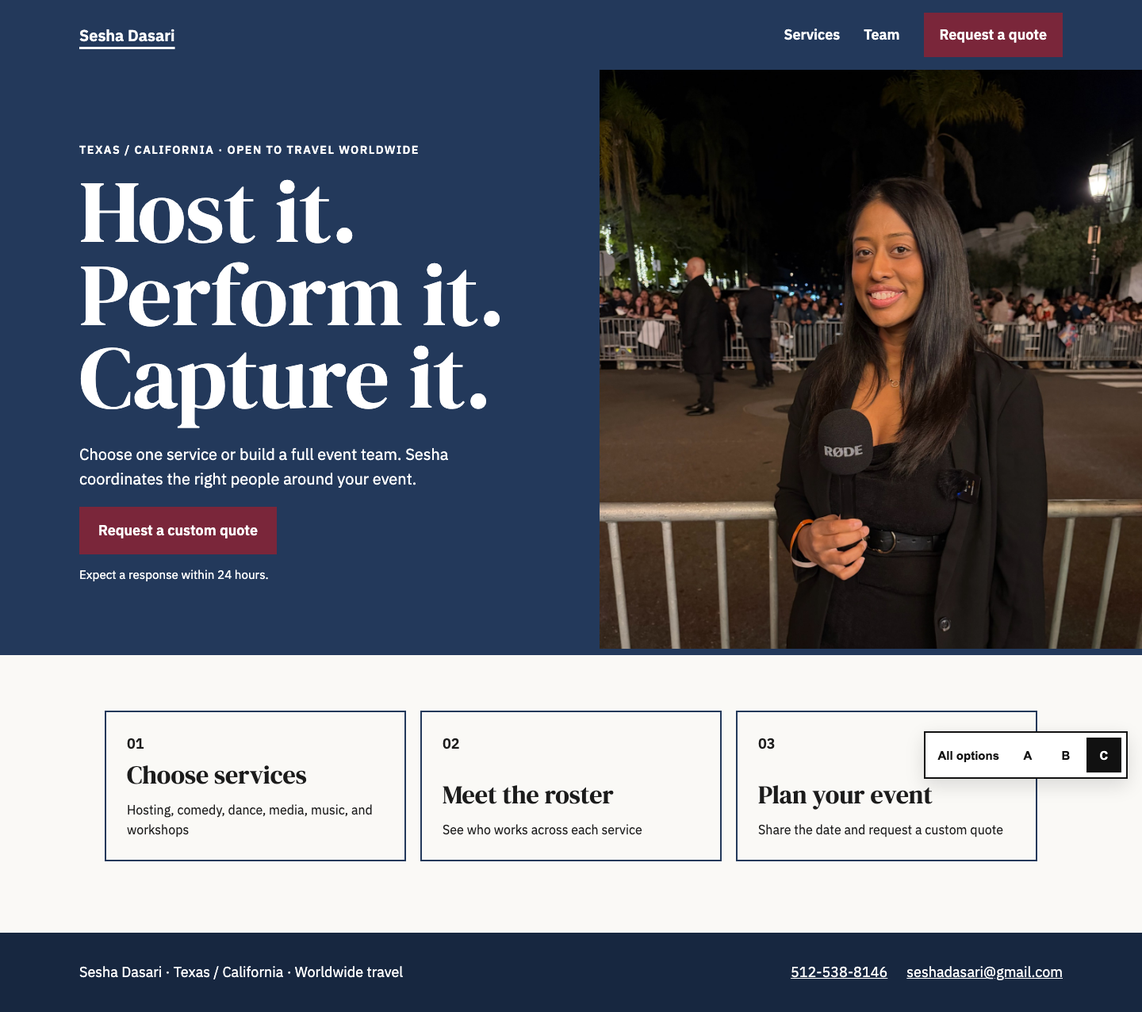
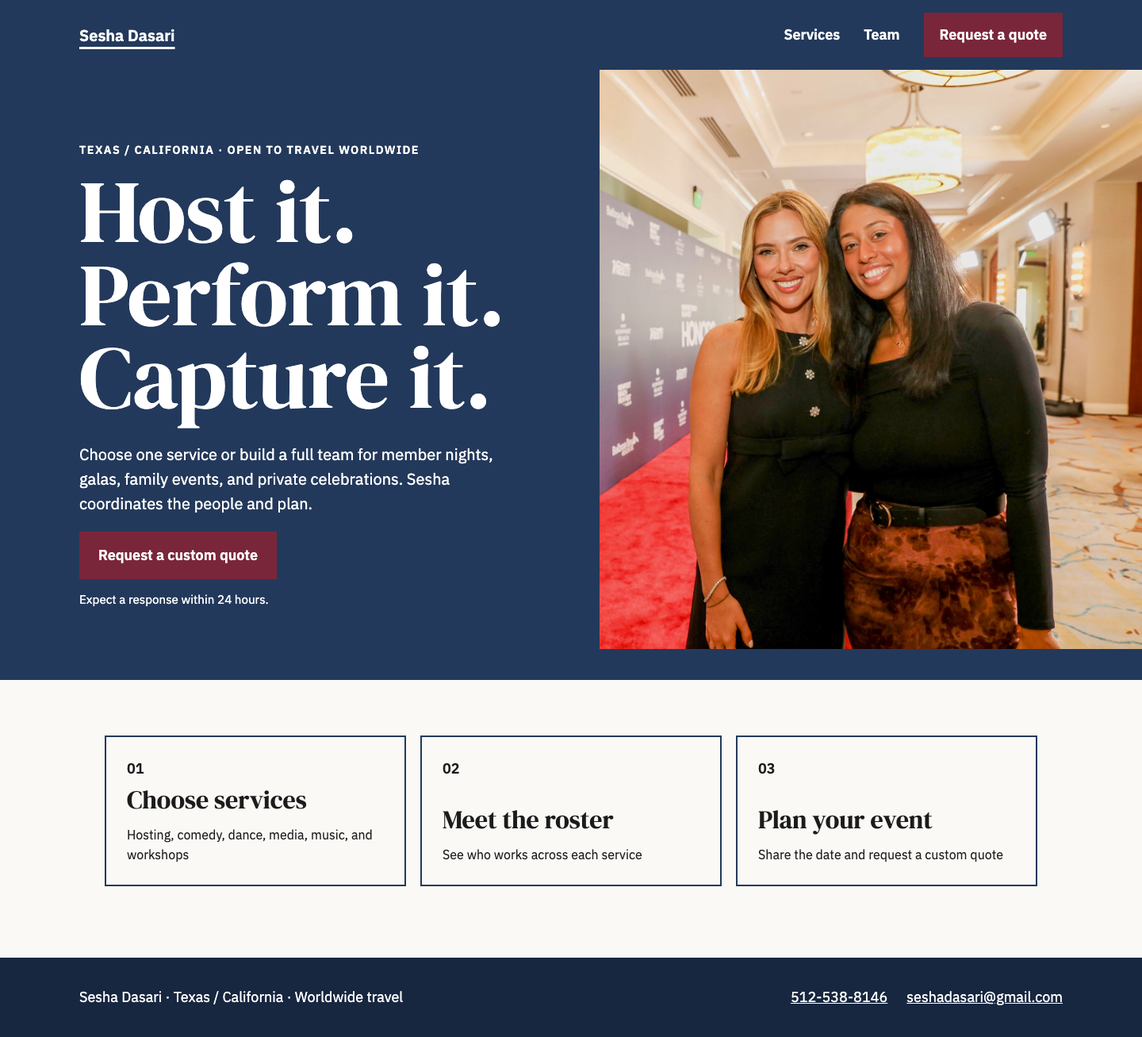
feat: promote Clear Concierge to private release checkpoint
Make index.html the customer homepage, archive the A/B/C comparison, preserve all design explorations, update Home links, and document release gates and tested surfaces.

diff --git a/index.html b/index.html
@@ -1,37 +1,16 @@
 <!doctype html>
 <html lang="en">
 <head>
-  <meta charset="utf-8">
-  <meta name="viewport" content="width=device-width, initial-scale=1">
-  <meta name="description" content="Compare three accessible website directions for Sesha Dasari's country-club entertainment team.">
-  <title>Choose a direction | Sesha Dasari</title>
-  <link rel="preconnect" href="https://fonts.googleapis.com">
-  <link rel="preconnect" href="https://fonts.gstatic.com" crossorigin>
-  <link href="https://fonts.googleapis.com/css2?family=Atkinson+Hyperlegible:wght@400;700&family=Fraunces:opsz,wght@9..144,600&display=swap" rel="stylesheet">
-  <link rel="stylesheet" href="variants.css">
+  <meta charset="utf-8"><meta name="viewport" content="width=device-width, initial-scale=1"><meta name="description" content="Plan country-club, corporate, wedding, and private events with hosting, entertainment, photography, video, and a flexible worldwide roster coordinated by Sesha Dasari."><title>Sesha Dasari | Event Hosting, Entertainment, and Media</title>
+  <link rel="preconnect" href="https://fonts.googleapis.com"><link rel="preconnect" href="https://fonts.gstatic.com" crossorigin><link href="https://fonts.googleapis.com/css2?family=DM+Serif+Display&family=IBM+Plex+Sans:wght@400;600&display=swap" rel="stylesheet"><link rel="stylesheet" href="variants.css">
 </head>
-<body class="compare-page">
-  <a class="skip-link" href="#main">Skip to options</a>
-  <main id="main" class="compare-main">
-    <header class="compare-header">
-      <p class="compare-kicker">Sesha Dasari website study</p>
-      <h1>Choose the clearest direction.</h1>
-      <p>Three concise sites for country-club decision-makers. Each uses larger type, strong contrast, direct contact, and one main action.</p>
-    </header>
-    <div class="compare-grid">
-      <article class="compare-card">
-        <a class="preview-link" href="variation-a.html" aria-label="Open Variation A, Classic Club"><img src="test-artifacts/variation-a.png" alt="Preview of the Classic Club website direction" width="1440" height="1050"></a>
-        <div class="compare-card-copy"><p class="option-label">Variation A</p><h2>Classic Club</h2><p>Formal, composed, and familiar. Best for private-club event directors.</p><p class="font-note">Cormorant Garamond + Source Sans 3</p><a class="compare-button" href="variation-a.html">View Classic Club</a></div>
-      </article>
-      <article class="compare-card">
-        <a class="preview-link" href="variation-b.html" aria-label="Open Variation B, Warm Gathering"><img src="test-artifacts/variation-b.png" alt="Preview of the Warm Gathering website direction" width="1440" height="1050"></a>
-        <div class="compare-card-copy"><p class="option-label">Variation B</p><h2>Warm Gathering</h2><p>Friendly, social, and approachable. Best for member-experience teams.</p><p class="font-note">Fraunces + Atkinson Hyperlegible</p><a class="compare-button" href="variation-b.html">View Warm Gathering</a></div>
-      </article>
-      <article class="compare-card">
-        <a class="preview-link" href="variation-c.html" aria-label="Open Variation C, Clear Concierge"><img src="test-artifacts/variation-c.png" alt="Preview of the Clear Concierge website direction" width="1440" height="1050"></a>
-        <div class="compare-card-copy"><p class="option-label">Variation C</p><h2>Clear Concierge</h2><p>Direct, structured, and service-led. Best for fast booking decisions.</p><p class="font-note">DM Serif Display + IBM Plex Sans</p><a class="compare-button" href="variation-c.html">View Clear Concierge</a></div>
-      </article>
-    </div>
+<body class="site-page variant-c">
+  <a class="skip-link" href="#main">Skip to content</a>
+  <header class="site-top"><a class="site-brand" href="index.html" aria-current="page">Sesha Dasari</a><nav aria-label="Main navigation"><a href="c-services.html">Services</a><a href="c-team.html">Team</a><a class="nav-action" href="c-contact.html">Request a quote</a></nav></header>
+  <main id="main">
+    <section class="hero-c"><div class="hero-c-copy"><p class="eyebrow">Texas / California · Open to travel worldwide</p><h1><span>Host it.</span><span>Perform it.</span><span>Capture it.</span></h1><p class="lead">Choose one service or build a full team for member nights, galas, family events, and private celebrations. Sesha coordinates the people and plan.</p><a class="primary-button" href="c-contact.html">Request a custom quote</a><p class="response-note">Expect a response within 24 hours.</p></div><img src="assets/sesha-scarlett-johansson.jpg" alt="Sesha Dasari standing beside Scarlett Johansson" width="1542" height="1676"></section>
+    <nav class="page-paths" aria-label="Explore the site"><a href="c-services.html"><span>01</span><strong>Choose services</strong><small>Hosting, comedy, dance, media, music, and workshops</small></a><a href="c-team.html"><span>02</span><strong>Meet the roster</strong><small>See who works across each service</small></a><a href="c-contact.html"><span>03</span><strong>Plan your event</strong><small>Share the date and request a custom quote</small></a></nav>
   </main>
+  <footer><p>Sesha Dasari · Texas / California · Worldwide travel</p><div class="footer-contact"><a href="tel:+15125388146">512-538-8146</a><a href="mailto:seshadasari@gmail.com">seshadasari@gmail.com</a></div></footer>
 </body>
 </html>

diff --git a/service-media.html b/service-media.html
@@ -1,10 +1,10 @@
 <!doctype html>
 <html lang="en">
 <head><meta charset="utf-8"><meta name="viewport" content="width=device-width, initial-scale=1"><meta name="description" content="Event photography, videography, social content, interviews, livestreaming, and multi-camera production from Charlie and Sidd."><title>Event Photography, Video, and Livestreaming | Sesha Dasari</title><link rel="preconnect" href="https://fonts.googleapis.com"><link rel="preconnect" href="https://fonts.gstatic.com" crossorigin><link href="https://fonts.googleapis.com/css2?family=DM+Serif+Display&family=IBM+Plex+Sans:wght@400;600&display=swap" rel="stylesheet"><link rel="stylesheet" href="variants.css"></head>
-<body class="site-page variant-c c-inner-page"><a class="skip-link" href="#main">Skip to content</a><header class="site-top"><a class="site-brand" href="variation-c.html">Sesha Dasari</a><nav aria-label="Main navigation"><a href="c-services.html" aria-current="page">Services</a><a href="c-team.html">Team</a><a class="nav-action" href="c-contact.html?service=media">Request a quote</a></nav></header>
+<body class="site-page variant-c c-inner-page"><a class="skip-link" href="#main">Skip to content</a><header class="site-top"><a class="site-brand" href="index.html">Sesha Dasari</a><nav aria-label="Main navigation"><a href="c-services.html" aria-current="page">Services</a><a href="c-team.html">Team</a><a class="nav-action" href="c-contact.html?service=media">Request a quote</a></nav></header>
 <main id="main">
   <section class="service-detail-hero"><div><p class="eyebrow">Media · Charlie and Sidd</p><h1>Capture the parts worth keeping.</h1><p class="lead">Plan coverage around the guest moments, performances, livestream, and deliverables needed after the event.</p><a class="primary-button" href="c-contact.html?service=media">Request a media quote</a></div><img src="assets/sesha-red-carpet-wide.jpg" alt="Sesha at a red-carpet event with a production camera in the background" width="1901" height="1426"></section>
   <section class="detail-list" aria-labelledby="media-includes"><p class="eyebrow">Available coverage</p><h2 id="media-includes">Photo, video, live, or all three.</h2><div><article><h3>Photo and video</h3><p>Events, performances, red carpets, interviews, and behind-the-scenes moments.</p></article><article><h3>Livestream production</h3><p>Professional streaming, multiple cameras, and live multi-view switching.</p></article><article><h3>Social content</h3><p>Short-form event moments planned for post-event distribution.</p></article></div></section>
   <section class="media-gallery" aria-labelledby="media-gallery-title"><div><p class="eyebrow">Selected work</p><h2 id="media-gallery-title">Coverage in context.</h2><p>Samples shared by the team show event performance and live red-carpet environments.</p></div><figure><img src="assets/dance-team-performance.jpg" alt="Wide event photo of two dancers performing on stage" width="2048" height="1365"><figcaption>Performance coverage</figcaption></figure><figure><img src="assets/sesha-red-carpet-interview.jpg" alt="Live red-carpet interview at an event" width="2048" height="1365"><figcaption>Interview coverage</figcaption></figure></section>
   <section class="inner-cta"><div><p class="eyebrow">Next step</p><h2>Tell us what you want delivered.</h2></div><a class="primary-button" href="c-contact.html?service=media">Request a custom quote</a></section>
-</main><footer><p>Sesha Dasari · Texas / California · Worldwide travel</p><nav aria-label="Footer navigation"><a href="variation-c.html">Home</a><a href="c-services.html">Services</a><a href="c-team.html">Team</a></nav></footer></body></html>
+</main><footer><p>Sesha Dasari · Texas / California · Worldwide travel</p><nav aria-label="Footer navigation"><a href="index.html">Home</a><a href="c-services.html">Services</a><a href="c-team.html">Team</a></nav></footer></body></html>

diff --git a/service-comedy.html b/service-comedy.html
@@ -1,10 +1,10 @@
 <!doctype html>
 <html lang="en">
 <head><meta charset="utf-8"><meta name="viewport" content="width=device-width, initial-scale=1"><meta name="description" content="Stand-up, improv, comedy showcases, game nights, and interactive entertainment with Sesha, Rick, and guest performers."><title>Comedy and Interactive Entertainment | Sesha Dasari</title><link rel="preconnect" href="https://fonts.googleapis.com"><link rel="preconnect" href="https://fonts.gstatic.com" crossorigin><link href="https://fonts.googleapis.com/css2?family=DM+Serif+Display&family=IBM+Plex+Sans:wght@400;600&display=swap" rel="stylesheet"><link rel="stylesheet" href="variants.css"></head>
-<body class="site-page variant-c c-inner-page"><a class="skip-link" href="#main">Skip to content</a><header class="site-top"><a class="site-brand" href="variation-c.html">Sesha Dasari</a><nav aria-label="Main navigation"><a href="c-services.html" aria-current="page">Services</a><a href="c-team.html">Team</a><a class="nav-action" href="c-contact.html?service=comedy">Request a quote</a></nav></header>
+<body class="site-page variant-c c-inner-page"><a class="skip-link" href="#main">Skip to content</a><header class="site-top"><a class="site-brand" href="index.html">Sesha Dasari</a><nav aria-label="Main navigation"><a href="c-services.html" aria-current="page">Services</a><a href="c-team.html">Team</a><a class="nav-action" href="c-contact.html?service=comedy">Request a quote</a></nav></header>
 <main id="main">
   <section class="service-detail-hero"><div><p class="eyebrow">Comedy · Sesha, Rick, and guest performers</p><h1>Comedy shaped for the room.</h1><p class="lead">Build a performance or interactive format around the audience, setting, and schedule.</p><a class="primary-button" href="c-contact.html?service=comedy">Request a comedy quote</a></div><img src="assets/rick-stage.jpg" alt="Rick performing stand-up comedy on stage" width="1421" height="1895"></section>
   <section class="detail-list" aria-labelledby="comedy-includes"><p class="eyebrow">Available formats</p><h2 id="comedy-includes">Performance or participation.</h2><div><article><h3>Stand-up and showcases</h3><p>Curated performers and sets planned around the venue and audience.</p></article><article><h3>Improv and workshops</h3><p>Interactive exercises for teams, members, and private groups.</p></article><article><h3>Games and trivia</h3><p>Family Feud-style nights, trivia, and hosted audience participation.</p></article></div></section>
   <section class="performer-pair" aria-labelledby="comedy-team-title"><div><p class="eyebrow">Comedy team</p><h2 id="comedy-team-title">Sesha and Rick</h2><p>Add guest comedians and teaching artists when the format needs a larger lineup.</p></div><div class="performer-images"><figure><img src="assets/sesha-comedy-stage.jpg" alt="Sesha performing comedy with a microphone" width="1204" height="1606"><figcaption>Sesha</figcaption></figure><figure><img src="assets/rick-headshot.jpg" alt="Portrait of comedian Rick" width="806" height="810"><figcaption>Rick</figcaption></figure></div></section>
   <section class="inner-cta"><div><p class="eyebrow">Next step</p><h2>Tell us about the audience.</h2></div><a class="primary-button" href="c-contact.html?service=comedy">Request a custom quote</a></section>
-</main><footer><p>Sesha Dasari · Texas / California · Worldwide travel</p><nav aria-label="Footer navigation"><a href="variation-c.html">Home</a><a href="c-services.html">Services</a><a href="c-team.html">Team</a></nav></footer></body></html>
+</main><footer><p>Sesha Dasari · Texas / California · Worldwide travel</p><nav aria-label="Footer navigation"><a href="index.html">Home</a><a href="c-services.html">Services</a><a href="c-team.html">Team</a></nav></footer></body></html>

diff --git a/service-hosting.html b/service-hosting.html
@@ -1,10 +1,10 @@
 <!doctype html>
 <html lang="en">
 <head><meta charset="utf-8"><meta name="viewport" content="width=device-width, initial-scale=1"><meta name="description" content="Event hosting, MC services, red-carpet interviews, podcast facilitation, and live coverage led by Sesha Dasari."><title>Event Hosting | Sesha Dasari</title><link rel="preconnect" href="https://fonts.googleapis.com"><link rel="preconnect" href="https://fonts.gstatic.com" crossorigin><link href="https://fonts.googleapis.com/css2?family=DM+Serif+Display&family=IBM+Plex+Sans:wght@400;600&display=swap" rel="stylesheet"><link rel="stylesheet" href="variants.css"></head>
-<body class="site-page variant-c c-inner-page"><a class="skip-link" href="#main">Skip to content</a><header class="site-top"><a class="site-brand" href="variation-c.html">Sesha Dasari</a><nav aria-label="Main navigation"><a href="c-services.html" aria-current="page">Services</a><a href="c-team.html">Team</a><a class="nav-action" href="c-contact.html?service=hosting">Request a quote</a></nav></header>
+<body class="site-page variant-c c-inner-page"><a class="skip-link" href="#main">Skip to content</a><header class="site-top"><a class="site-brand" href="index.html">Sesha Dasari</a><nav aria-label="Main navigation"><a href="c-services.html" aria-current="page">Services</a><a href="c-team.html">Team</a><a class="nav-action" href="c-contact.html?service=hosting">Request a quote</a></nav></header>
 <main id="main">
   <section class="service-detail-hero"><div><p class="eyebrow">Hosting · Led by Sesha</p><h1>Keep the event moving.</h1><p class="lead">Welcome guests, guide transitions, interview talent, and give the room one clear point of contact.</p><a class="primary-button" href="c-contact.html?service=hosting">Request a hosting quote</a></div><img src="assets/sesha-red-carpet-interview.jpg" alt="Sesha Dasari interviewing a guest on a red carpet" width="2048" height="1365"></section>
   <section class="detail-list" aria-labelledby="hosting-includes"><p class="eyebrow">Available support</p><h2 id="hosting-includes">Choose what the event needs.</h2><div><article><h3>Red-carpet interviews</h3><p>Guest arrivals, interviews, and short on-camera moments.</p></article><article><h3>Event host and MC</h3><p>Welcomes, announcements, stage transitions, and audience direction.</p></article><article><h3>Podcast and editorial</h3><p>Conversation flow, guest interviews, and written entertainment coverage.</p></article></div></section>
   <section class="media-preview media-preview-photo"><div><p class="eyebrow">Work sample</p><h2>See Sesha interview on-site.</h2><p>The group chat linked this public Instagram reel as a hosting and interview sample.</p><a class="text-button" href="https://www.instagram.com/reel/DLc-bXIJjSe/" target="_blank" rel="noopener">Watch the interview reel</a></div><img src="assets/sesha-red-carpet-wide.jpg" alt="Sesha holding a microphone at a live event" width="1901" height="1426"></section>
   <section class="inner-cta"><div><p class="eyebrow">Next step</p><h2>Share the date and format.</h2></div><a class="primary-button" href="c-contact.html?service=hosting">Request a custom quote</a></section>
-</main><footer><p>Sesha Dasari · Texas / California · Worldwide travel</p><nav aria-label="Footer navigation"><a href="variation-c.html">Home</a><a href="c-services.html">Services</a><a href="c-team.html">Team</a></nav></footer></body></html>
+</main><footer><p>Sesha Dasari · Texas / California · Worldwide travel</p><nav aria-label="Footer navigation"><a href="index.html">Home</a><a href="c-services.html">Services</a><a href="c-team.html">Team</a></nav></footer></body></html>

diff --git a/service-dance.html b/service-dance.html
@@ -1,10 +1,10 @@
 <!doctype html>
 <html lang="en">
 <head><meta charset="utf-8"><meta name="viewport" content="width=device-width, initial-scale=1"><meta name="description" content="Dance performances, classes, workshops, choreography, and interactive guest experiences with Yuvhan, Abin, and guest dancers."><title>Dance Performances and Workshops | Sesha Dasari</title><link rel="preconnect" href="https://fonts.googleapis.com"><link rel="preconnect" href="https://fonts.gstatic.com" crossorigin><link href="https://fonts.googleapis.com/css2?family=DM+Serif+Display&family=IBM+Plex+Sans:wght@400;600&display=swap" rel="stylesheet"><link rel="stylesheet" href="variants.css"></head>
-<body class="site-page variant-c c-inner-page"><a class="skip-link" href="#main">Skip to content</a><header class="site-top"><a class="site-brand" href="variation-c.html">Sesha Dasari</a><nav aria-label="Main navigation"><a href="c-services.html" aria-current="page">Services</a><a href="c-team.html">Team</a><a class="nav-action" href="c-contact.html?service=dance">Request a quote</a></nav></header>
+<body class="site-page variant-c c-inner-page"><a class="skip-link" href="#main">Skip to content</a><header class="site-top"><a class="site-brand" href="index.html">Sesha Dasari</a><nav aria-label="Main navigation"><a href="c-services.html" aria-current="page">Services</a><a href="c-team.html">Team</a><a class="nav-action" href="c-contact.html?service=dance">Request a quote</a></nav></header>
 <main id="main">
   <section class="service-detail-hero"><div><p class="eyebrow">Dance · Yuvhan, Abin, and guest dancers</p><h1>Give guests a show or a reason to join in.</h1><p class="lead">Book a performance, guided workshop, choreography, or a combined experience.</p><a class="primary-button" href="c-contact.html?service=dance">Request a dance quote</a></div><img src="assets/dance-team-performance.jpg" alt="Two dancers performing together on an event stage" width="2048" height="1365"></section>
   <section class="detail-list" aria-labelledby="dance-includes"><p class="eyebrow">Available formats</p><h2 id="dance-includes">Watch. Learn. Participate.</h2><div><article><h3>Performances</h3><p>Bollywood, hip-hop, classical, Kuthu, Garba, Raas, and other South Asian styles.</p></article><article><h3>Workshops and classes</h3><p>Private tutorials, group sessions, and interactive guest dance.</p></article><article><h3>Event choreography</h3><p>Prepare a group, wedding party, or featured moment for the event.</p></article></div></section>
   <section class="media-preview media-preview-photo"><div><p class="eyebrow">Dance roster</p><h2>Yuvhan and Abin</h2><p>Guest dancers join the lineup based on the style, event, and location.</p></div><img src="assets/dance-solo-performance.jpg" alt="Dancer performing on an event stage" width="1365" height="2048"></section>
   <section class="inner-cta"><div><p class="eyebrow">Next step</p><h2>Choose performance, workshop, or both.</h2></div><a class="primary-button" href="c-contact.html?service=dance">Request a custom quote</a></section>
-</main><footer><p>Sesha Dasari · Texas / California · Worldwide travel</p><nav aria-label="Footer navigation"><a href="variation-c.html">Home</a><a href="c-services.html">Services</a><a href="c-team.html">Team</a></nav></footer></body></html>
+</main><footer><p>Sesha Dasari · Texas / California · Worldwide travel</p><nav aria-label="Footer navigation"><a href="index.html">Home</a><a href="c-services.html">Services</a><a href="c-team.html">Team</a></nav></footer></body></html>

diff --git a/c-team.html b/c-team.html
@@ -6,7 +6,7 @@
 </head>
 <body class="site-page variant-c c-inner-page">
   <a class="skip-link" href="#main">Skip to content</a>
-  <header class="site-top"><a class="site-brand" href="variation-c.html">Sesha Dasari</a><nav aria-label="Main navigation"><a href="c-services.html">Services</a><a href="c-team.html" aria-current="page">Team</a><a class="nav-action" href="c-contact.html">Request a quote</a></nav></header>
+  <header class="site-top"><a class="site-brand" href="index.html">Sesha Dasari</a><nav aria-label="Main navigation"><a href="c-services.html">Services</a><a href="c-team.html" aria-current="page">Team</a><a class="nav-action" href="c-contact.html">Request a quote</a></nav></header>
   <main id="main">
     <section class="team-page-hero"><img src="assets/sesha-red-carpet-wide.jpg" alt="Sesha Dasari holding a microphone at a live red-carpet event" width="1901" height="1426"><div><p class="eyebrow">Lead contact and creative producer</p><h1>Sesha Dasari</h1><p class="team-roles">Host. Comedian. Actor. Producer.</p><p>Sesha leads the client brief, performs across several formats, and builds the roster around each event.</p><p>Her work spans live hosting, red-carpet interviews, comedy, improv, acting, podcast facilitation, and coaching.</p><dl><div><dt>Coverage</dt><dd>Texas / California. Open to travel worldwide.</dd></div><div><dt>Response time</dt><dd>Within 24 hours</dd></div><div><dt>Team model</dt><dd>Specialists selected per brief</dd></div></dl></div></section>
     <section class="roster-section" aria-labelledby="roster-title"><div class="roster-heading"><p class="eyebrow">Flexible roster</p><h2 id="roster-title">People work across more than one lane.</h2><p>The final team depends on the service mix, location, schedule, and audience.</p></div><div class="roster-grid">
@@ -19,6 +19,6 @@
     <section class="photo-proof" aria-labelledby="photo-proof-title"><div><p class="eyebrow">Photo and video team</p><h2 id="photo-proof-title">Coverage supports every lane.</h2><p>Charlie and Sidd handle photography, video, livestream, social clips, interviews, and behind-the-scenes work based on the brief.</p><a class="text-button" href="service-media.html">View media services</a></div><img src="assets/dance-solo-performance.jpg" alt="Event dance performance photographed on stage" width="1365" height="2048"></section>
     <section class="inner-cta" aria-labelledby="team-cta"><div><p class="eyebrow">Have an event in mind?</p><h2 id="team-cta">Start with the outcome.</h2></div><a class="primary-button" href="c-contact.html">Request a custom quote</a></section>
   </main>
-  <footer><p>Sesha Dasari · Texas / California · Worldwide travel</p><nav aria-label="Footer navigation"><a href="variation-c.html">Home</a><a href="c-services.html">Services</a><a href="c-contact.html">Contact</a></nav></footer>
+  <footer><p>Sesha Dasari · Texas / California · Worldwide travel</p><nav aria-label="Footer navigation"><a href="index.html">Home</a><a href="c-services.html">Services</a><a href="c-contact.html">Contact</a></nav></footer>
 </body>
 </html>

diff --git a/design-archive.html b/design-archive.html
@@ -1,0 +1,37 @@
+<!doctype html>
+<html lang="en">
+<head>
+  <meta charset="utf-8">
+  <meta name="viewport" content="width=device-width, initial-scale=1">
+  <meta name="description" content="Archived website directions for Sesha Dasari's event team.">
+  <title>Design archive | Sesha Dasari</title>
+  <link rel="preconnect" href="https://fonts.googleapis.com">
+  <link rel="preconnect" href="https://fonts.gstatic.com" crossorigin>
+  <link href="https://fonts.googleapis.com/css2?family=Atkinson+Hyperlegible:wght@400;700&family=Fraunces:opsz,wght@9..144,600&display=swap" rel="stylesheet">
+  <link rel="stylesheet" href="variants.css">
+</head>
+<body class="compare-page">
+  <a class="skip-link" href="#main">Skip to options</a>
+  <main id="main" class="compare-main">
+    <header class="compare-header">
+      <p class="compare-kicker">Sesha Dasari website study</p>
+      <h1>Archived design directions.</h1>
+      <p>Three early concepts for country-club decision-makers. Clear Concierge became the selected direction.</p>
+    </header>
+    <div class="compare-grid">
+      <article class="compare-card">
+        <a class="preview-link" href="variation-a.html" aria-label="Open Variation A, Classic Club"><img src="test-artifacts/variation-a.png" alt="Preview of the Classic Club website direction" width="1440" height="1050"></a>
+        <div class="compare-card-copy"><p class="option-label">Variation A</p><h2>Classic Club</h2><p>Formal, composed, and familiar. Built for private-club event directors.</p><p class="font-note">Cormorant Garamond + Source Sans 3</p><a class="compare-button" href="variation-a.html">View Classic Club</a></div>
+      </article>
+      <article class="compare-card">
+        <a class="preview-link" href="variation-b.html" aria-label="Open Variation B, Warm Gathering"><img src="test-artifacts/variation-b.png" alt="Preview of the Warm Gathering website direction" width="1440" height="1050"></a>
+        <div class="compare-card-copy"><p class="option-label">Variation B</p><h2>Warm Gathering</h2><p>Friendly, social, and approachable. Built for member-experience teams.</p><p class="font-note">Fraunces + Atkinson Hyperlegible</p><a class="compare-button" href="variation-b.html">View Warm Gathering</a></div>
+      </article>
+      <article class="compare-card">
+        <a class="preview-link" href="variation-c.html" aria-label="Open Variation C, Clear Concierge"><img src="test-artifacts/variation-c.png" alt="Preview of the Clear Concierge website direction" width="1440" height="1050"></a>
+        <div class="compare-card-copy"><p class="option-label">Variation C</p><h2>Clear Concierge</h2><p>Direct, structured, and service-led. This became the selected direction.</p><p class="font-note">DM Serif Display + IBM Plex Sans</p><a class="compare-button" href="variation-c.html">View archived Clear Concierge</a></div>
+      </article>
+    </div>
+  </main>
+</body>
+</html>

diff --git a/c-services.html b/c-services.html
@@ -6,7 +6,7 @@
 </head>
 <body class="site-page variant-c c-inner-page">
   <a class="skip-link" href="#main">Skip to content</a>
-  <header class="site-top"><a class="site-brand" href="variation-c.html">Sesha Dasari</a><nav aria-label="Main navigation"><a href="c-services.html" aria-current="page">Services</a><a href="c-team.html">Team</a><a class="nav-action" href="c-contact.html">Request a quote</a></nav></header>
+  <header class="site-top"><a class="site-brand" href="index.html">Sesha Dasari</a><nav aria-label="Main navigation"><a href="c-services.html" aria-current="page">Services</a><a href="c-team.html">Team</a><a class="nav-action" href="c-contact.html">Request a quote</a></nav></header>
   <main id="main">
     <header class="inner-hero"><p class="eyebrow">One brief · Flexible roster</p><h1>Build around your event.</h1><p>Book one specialist or combine services. Every inquiry receives a custom quote.</p></header>
     <section class="service-catalog" aria-labelledby="catalog-title">
@@ -28,7 +28,7 @@
     <section class="proof-strip" aria-labelledby="proof-title"><img src="assets/sesha-red-carpet-interview.jpg" alt="Sesha interviewing a guest on a red carpet" width="2048" height="1365"><div><p class="eyebrow">Live-event proof</p><h2 id="proof-title">Experience in the room.</h2><p>Hosting, interviews, performance, and coverage are shown through real event work shared by the team.</p><a href="c-team.html">Meet the roster</a></div></section>
     <section class="inner-cta" aria-labelledby="services-cta"><div><p class="eyebrow">No public price list</p><h2 id="services-cta">Get a quote for your event.</h2><p>Share the date, location, guest count, and service mix. Expect a response within 24 hours.</p></div><a class="primary-button" href="c-contact.html">Request a custom quote</a></section>
   </main>
-  <footer><p>Sesha Dasari · Texas / California · Worldwide travel</p><nav aria-label="Footer navigation"><a href="variation-c.html">Home</a><a href="c-team.html">Team</a><a href="c-contact.html">Contact</a></nav></footer>
+  <footer><p>Sesha Dasari · Texas / California · Worldwide travel</p><nav aria-label="Footer navigation"><a href="index.html">Home</a><a href="c-team.html">Team</a><a href="c-contact.html">Contact</a></nav></footer>
   <script src="c-site.js" defer></script>
 </body>
 </html>

diff --git a/c-contact.html b/c-contact.html
@@ -6,7 +6,7 @@
 </head>
 <body class="site-page variant-c c-inner-page contact-page">
   <a class="skip-link" href="#main">Skip to content</a>
-  <header class="site-top"><a class="site-brand" href="variation-c.html">Sesha Dasari</a><nav aria-label="Main navigation"><a href="c-services.html">Services</a><a href="c-team.html">Team</a><a class="nav-action" href="c-contact.html" aria-current="page">Request a quote</a></nav></header>
+  <header class="site-top"><a class="site-brand" href="index.html">Sesha Dasari</a><nav aria-label="Main navigation"><a href="c-services.html">Services</a><a href="c-team.html">Team</a><a class="nav-action" href="c-contact.html" aria-current="page">Request a quote</a></nav></header>
   <main id="main">
     <header class="quote-hero"><p class="eyebrow">Custom event quote</p><h1>Tell us what you’re planning.</h1><p>Send the event basics. Sesha will reply within 24 hours.</p><div class="direct-lines"><a href="tel:+15125388146">Call 512-538-8146</a><a href="mailto:seshadasari@gmail.com">seshadasari@gmail.com</a></div></header>
     <section class="quote-section" aria-labelledby="form-title">
@@ -26,7 +26,7 @@
       </form>
     </section>
   </main>
-  <footer><p>Sesha Dasari · Texas / California · Worldwide travel</p><nav aria-label="Footer navigation"><a href="variation-c.html">Home</a><a href="c-services.html">Services</a><a href="c-team.html">Team</a></nav></footer>
+  <footer><p>Sesha Dasari · Texas / California · Worldwide travel</p><nav aria-label="Footer navigation"><a href="index.html">Home</a><a href="c-services.html">Services</a><a href="c-team.html">Team</a></nav></footer>
   <script src="c-site.js" defer></script>
 </body>
 </html>

diff --git a/variation-b.html b/variation-b.html
@@ -7,7 +7,7 @@
 </head>
 <body class="site-page variant-b">
   <a class="skip-link" href="#main">Skip to content</a>
-  <aside class="preview-bar" aria-label="Design preview navigation"><a href="index.html">All options</a><a href="variation-a.html">A</a><span aria-current="page">B</span><a href="variation-c.html">C</a></aside>
+  <aside class="preview-bar" aria-label="Design preview navigation"><a href="design-archive.html">All options</a><a href="variation-a.html">A</a><span aria-current="page">B</span><a href="variation-c.html">C</a></aside>
   <header class="site-top"><a class="site-brand" href="#top">Sesha Dasari</a><nav aria-label="Main navigation"><a href="#services">What we do</a><a href="#about">Meet Sesha</a><a class="nav-action" href="mailto:seshadasari@gmail.com?subject=Member%20event%20inquiry">Plan an event</a></nav></header>
   <main id="main">
     <section class="hero-b" id="top"><div class="hero-copy"><p class="eyebrow">For member events worth staying for</p><h1>Bring your members together.</h1><p class="lead">A warm host, live entertainment, and event coverage from one Austin team.</p><a class="primary-button" href="mailto:seshadasari@gmail.com?subject=Member%20event%20inquiry">Plan a member event</a></div><div class="collage" aria-label="Photos of Sesha Dasari"><img class="collage-main" src="assets/sesha-portrait.jpg" alt="Sesha Dasari standing in a red architectural walkway" width="3024" height="4032"><img class="collage-small" src="assets/sesha-headshot.jpg" alt="Portrait of Sesha Dasari" width="1365" height="2048"></div></section>

diff --git a/variation-a.html b/variation-a.html
@@ -9,7 +9,7 @@
 </head>
 <body class="site-page variant-a">
   <a class="skip-link" href="#main">Skip to content</a>
-  <aside class="preview-bar" aria-label="Design preview navigation"><a href="index.html">All options</a><span aria-current="page">A</span><a href="variation-b.html">B</a><a href="variation-c.html">C</a></aside>
+  <aside class="preview-bar" aria-label="Design preview navigation"><a href="design-archive.html">All options</a><span aria-current="page">A</span><a href="variation-b.html">B</a><a href="variation-c.html">C</a></aside>
   <header class="site-top"><a class="site-brand" href="#top">Sesha Dasari</a><nav aria-label="Main navigation"><a href="#services">Services</a><a href="#about">About</a><a class="nav-action" href="mailto:seshadasari@gmail.com?subject=Country%20club%20event%20inquiry">Request options</a></nav></header>
   <main id="main">
     <section class="hero-a" id="top"><div class="hero-copy"><p class="eyebrow">Country-club entertainment</p><h1>Plan one event.<br>Book one team.</h1><p class="lead">Hosting, comedy, dance, photography, and video through one clear event brief.</p><a class="primary-button" href="mailto:seshadasari@gmail.com?subject=Country%20club%20event%20inquiry">Request event options</a><p class="direct-contact">Prefer to talk? <a href="tel:+15125388146">Call 512-538-8146</a></p></div><figure class="hero-image"><img src="assets/sesha-headshot.jpg" alt="Portrait of Sesha Dasari" width="1365" height="2048"><figcaption>Austin-based host and performer</figcaption></figure></section>

diff --git a/variation-c.html b/variation-c.html
@@ -6,7 +6,7 @@
 </head>
 <body class="site-page variant-c">
   <a class="skip-link" href="#main">Skip to content</a>
-  <aside class="preview-bar" aria-label="Design preview navigation"><a href="index.html">All options</a><a href="variation-a.html">A</a><a href="variation-b.html">B</a><span aria-current="page">C</span></aside>
+  <aside class="preview-bar" aria-label="Design preview navigation"><a href="design-archive.html">All options</a><a href="variation-a.html">A</a><a href="variation-b.html">B</a><span aria-current="page">C</span></aside>
   <header class="site-top"><a class="site-brand" href="variation-c.html" aria-current="page">Sesha Dasari</a><nav aria-label="Main navigation"><a href="c-services.html">Services</a><a href="c-team.html">Team</a><a class="nav-action" href="c-contact.html">Request a quote</a></nav></header>
   <main id="main">
     <section class="hero-c"><div class="hero-c-copy"><p class="eyebrow">Texas / California · Open to travel worldwide</p><h1><span>Host it.</span><span>Perform it.</span><span>Capture it.</span></h1><p class="lead">Choose one service or build a full event team. Sesha coordinates the right people around your event.</p><a class="primary-button" href="c-contact.html">Request a custom quote</a><p class="response-note">Expect a response within 24 hours.</p></div><img src="assets/sesha-scarlett-johansson.jpg" alt="Sesha Dasari with Scarlett Johansson at an entertainment event" width="1542" height="1676"></section>
